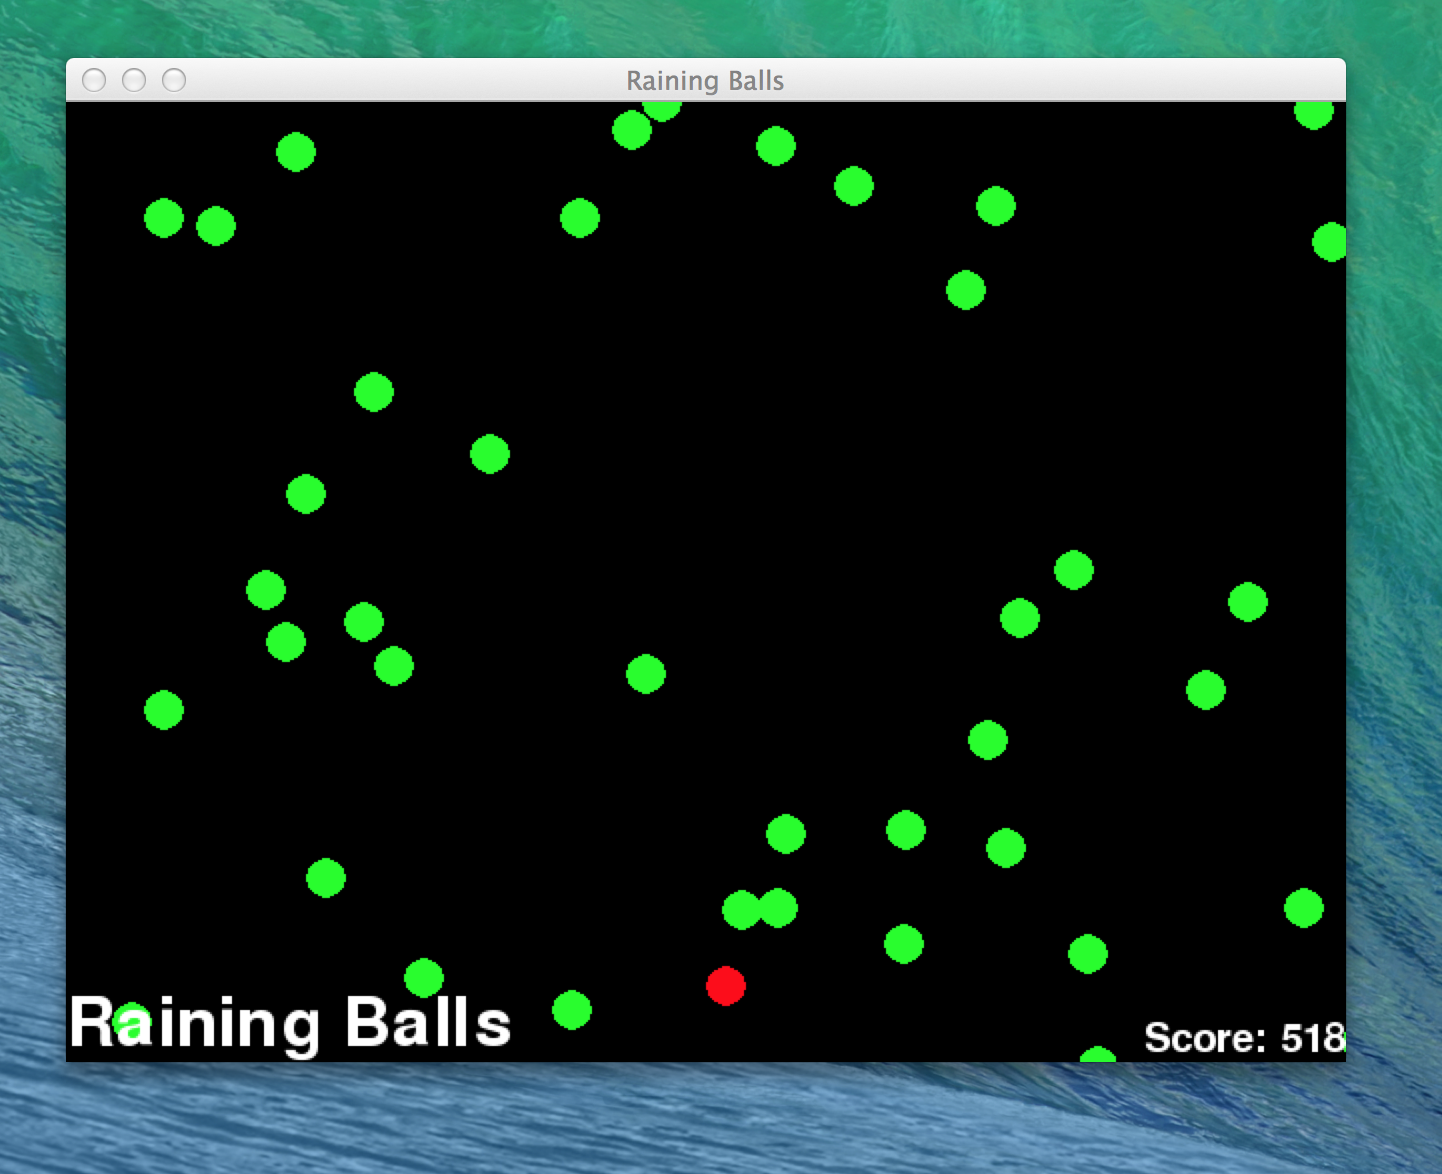
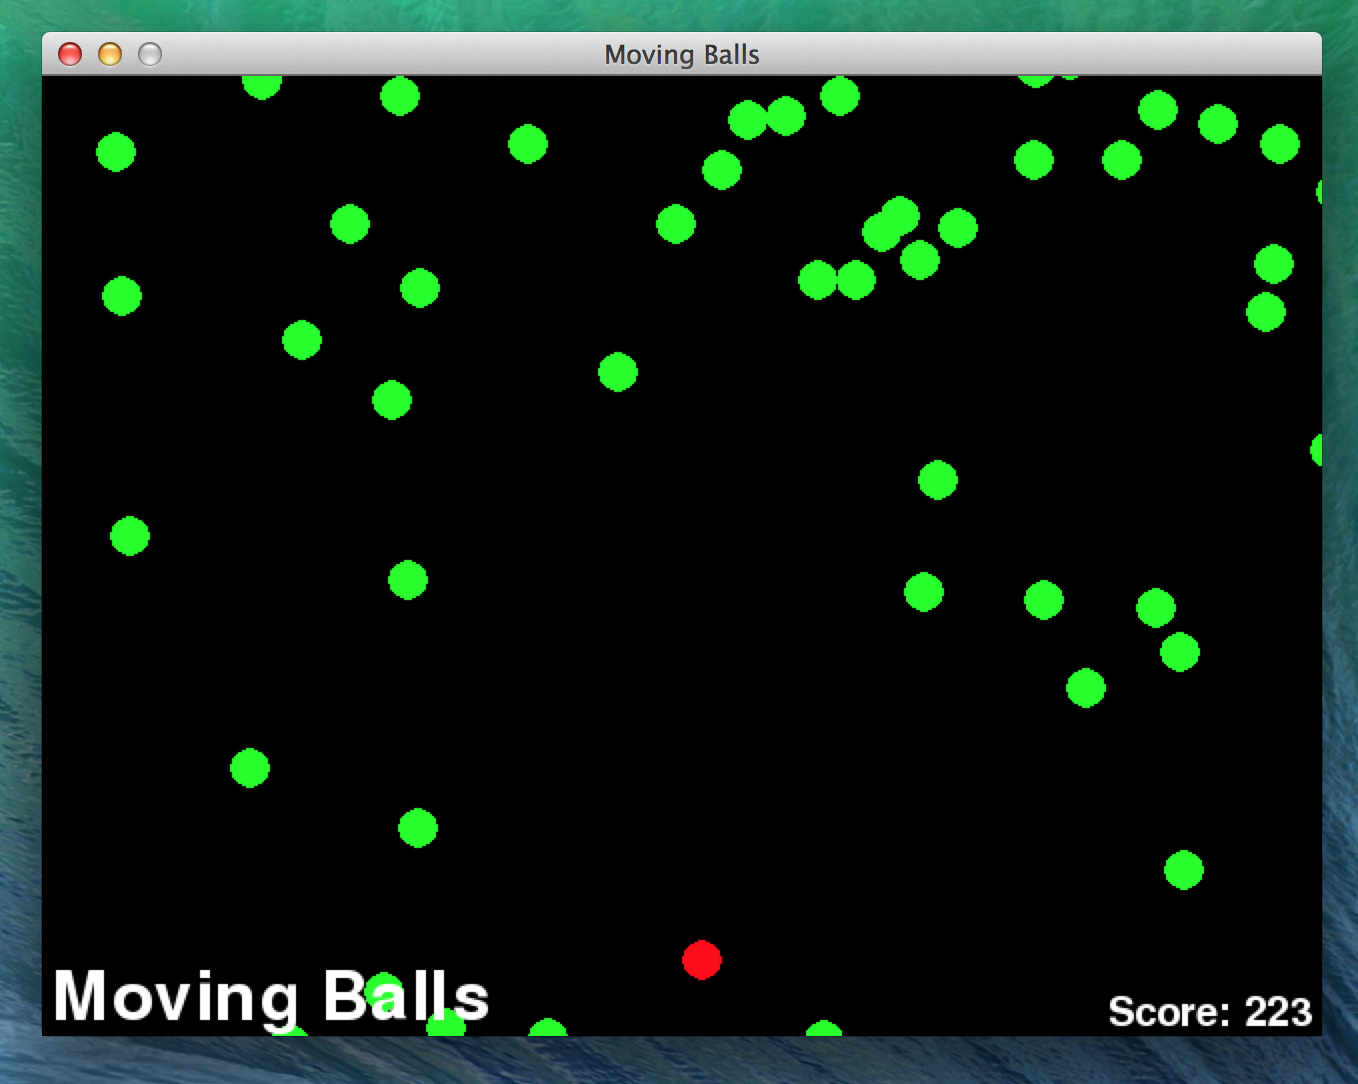
Gameplay enhancements. Balls change direction

diff --git a/moving_ball.py b/moving_ball.py
@@ -1,3 +1,9 @@
+#########################################################################
+#																		#
+#					Moving Balls ~ mshirlaw								#
+#																		#
+#########################################################################
+
 #!/usr/bin/python
 import pygame, random
 
@@ -6,7 +12,9 @@ class BallSprite(pygame.sprite.Sprite):
 	# Ball attributes
 	x_speed = 0
 	y_speed = 0
-	update_speed=2
+	update_speed=0
+	min_speed=0
+	yd=0
 	lives = 0
 	score=0
 
@@ -16,7 +24,10 @@ class BallSprite(pygame.sprite.Sprite):
 		self.color=c
 		self.size=s
 		self.score=0
-		self.lives=3
+		self.lives=5
+		self.update_speed=2
+		self.min_speed=2
+		self.yd=1
 		self.image = pygame.Surface([self.size,self.size])
 		self.image.fill((255,255,255))
 		self.image.set_colorkey((255,255,255))
@@ -41,11 +52,21 @@ class BallSprite(pygame.sprite.Sprite):
 		s=pygame.display.get_surface()
 		w_width=pygame.Surface.get_width(s)
 		w_height=pygame.Surface.get_height(s)
-		self.rect.y += self.update_speed
+		self.rect.y += self.update_speed*self.yd
 		if self.rect.y > w_height:
 			self.rect.y=-w_height/10
 			self.rect.x=random.randrange(0,width)
-			self.update_speed = random.randrange(2,5)
+			self.update_speed = random.randint(self.min_speed,6)
+		elif self.rect.y < 0-w_height/10:
+			self.rect.y=w_height
+			self.rect.x=random.randrange(0,width)
+			self.update_speed = random.randint(self.min_speed,6)
+
+	# flip vertical direction and increase min speed
+	def change(self,ydir):
+		self.yd=ydir
+		if self.min_speed<5:
+			self.min_speed+=1
 
 class TitleSprite(pygame.sprite.Sprite):
 	"""A class to represent text on the screen"""
@@ -58,17 +79,17 @@ class TitleSprite(pygame.sprite.Sprite):
 		self.h=w_height
 		self.main=flag
 		self.font = pygame.font.Font(None, 50)
-		self.text = "Raining Balls"
+		self.text = "Moving Balls"
 		self.renderTitle()
 
 	def renderTitle(self):
 		self.image = self.font.render( self.text, 1, (255,255,255))
 		self.rect  = self.image.get_rect()
 		if self.main:
-			self.rect.move_ip( (0,self.h-self.image.get_height()))
+			self.rect.move_ip( (5,self.h-self.image.get_height()))
 		else:
 			self.font = pygame.font.Font(None, 30)
-			self.rect.move_ip( (self.w-self.image.get_width(),self.h-self.image.get_height()))
+			self.rect.move_ip( (self.w-5-self.image.get_width(),self.h-self.image.get_height()))
 
 	def update(self,new_title):
 		self.text=new_title
@@ -83,6 +104,7 @@ red = (255,0,0)
 black= (0,0,0)
 white=(255,255,255)
 green = (0,255,0)
+PLAYER_SPEED=4
 
 # width and height to create tuple for screen size 
 width=640
@@ -91,7 +113,7 @@ size = (width,height)
 
 # initialise a window
 window = pygame.display.set_mode( size )
-pygame.display.set_caption( "Raining Balls" )
+pygame.display.set_caption( "Moving Balls" )
 
 # all sprites in game
 all_sprites_list = pygame.sprite.Group()
@@ -140,22 +162,22 @@ while game_over==False:
 			game_over = True
 		elif event.type == pygame.KEYDOWN:
 			if event.key == pygame.K_LEFT:
-				player.x_speed=-3
+				player.x_speed=-PLAYER_SPEED
 			elif event.key == pygame.K_RIGHT:
-				player.x_speed=3
+				player.x_speed=PLAYER_SPEED
 			elif event.key == pygame.K_UP:
-				player.y_speed=-3
+				player.y_speed=-PLAYER_SPEED
 			elif event.key == pygame.K_DOWN:
-				player.y_speed=3
+				player.y_speed=PLAYER_SPEED
 		elif event.type == pygame.KEYUP:
 			if event.key == pygame.K_LEFT:
-				player.x_speed=0
+				player.x_speed=0*PLAYER_SPEED
 			elif event.key == pygame.K_RIGHT:
-				player.x_speed=0
+				player.x_speed=0*PLAYER_SPEED
 			elif event.key == pygame.K_UP:
-				player.y_speed=0
+				player.y_speed=0*PLAYER_SPEED
 			elif event.key == pygame.K_DOWN:
-				player.y_speed=0
+				player.y_speed=0*PLAYER_SPEED
 	
 	# move the player
 	player.move()
@@ -185,7 +207,21 @@ while game_over==False:
 	# update score
 	player.score=player.score+1
 	scoreSprite.update("Score: "+str(player.score))
-	
+
+	# flip vertical direction
+	if player.score==500:
+		for enemy in enemy_list:
+			enemy.change(-1)
+	elif player.score==1000:
+		for enemy in enemy_list:
+			enemy.change(1)
+	elif player.score==1500:
+		for enemy in enemy_list:
+			enemy.change(-1)
+	elif player.score==2000:
+		for enemy in enemy_list:
+			enemy.change(1)
+
    	pygame.display.flip()
     	
    	clock.tick(60)
